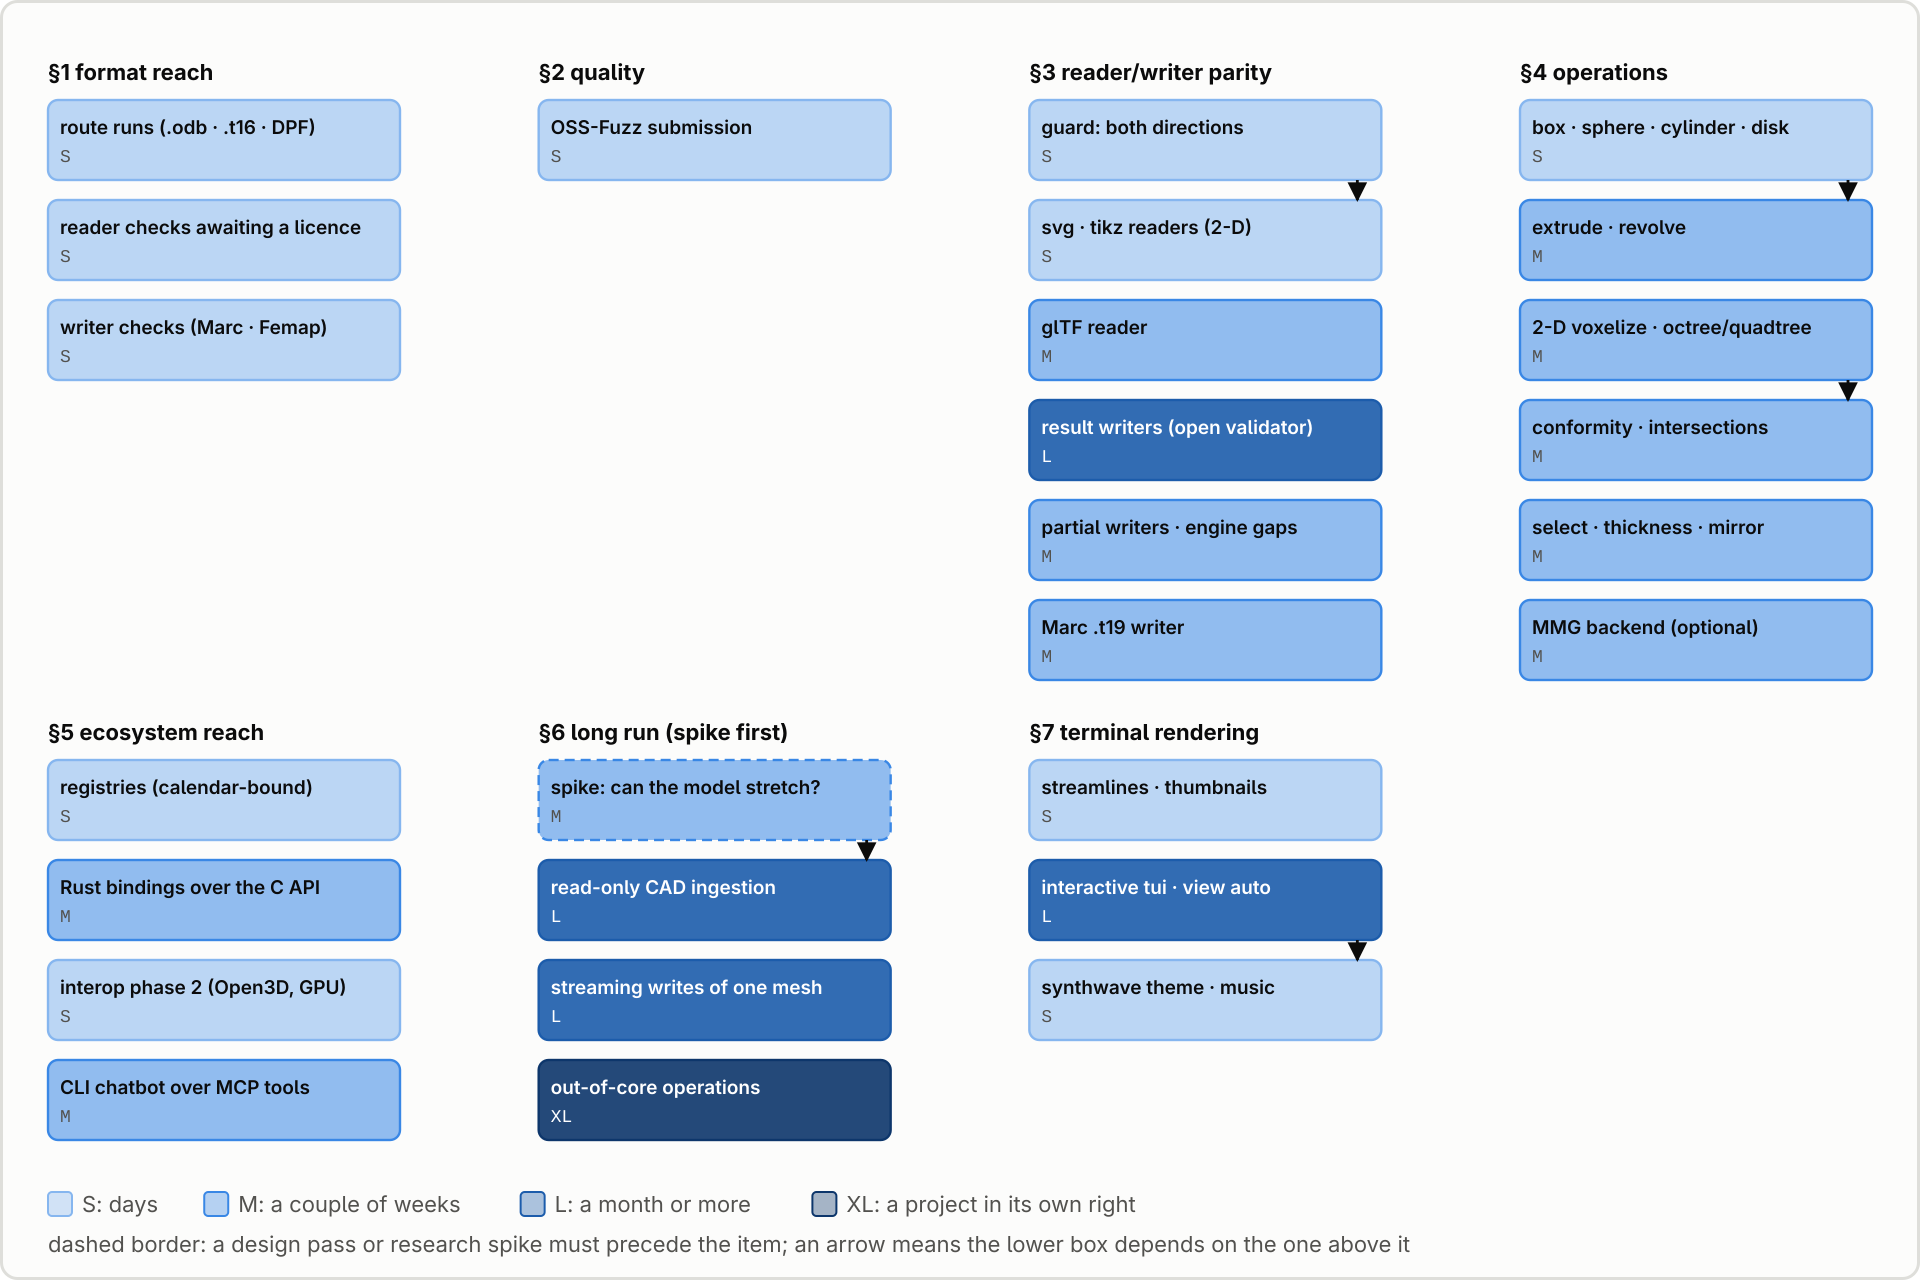
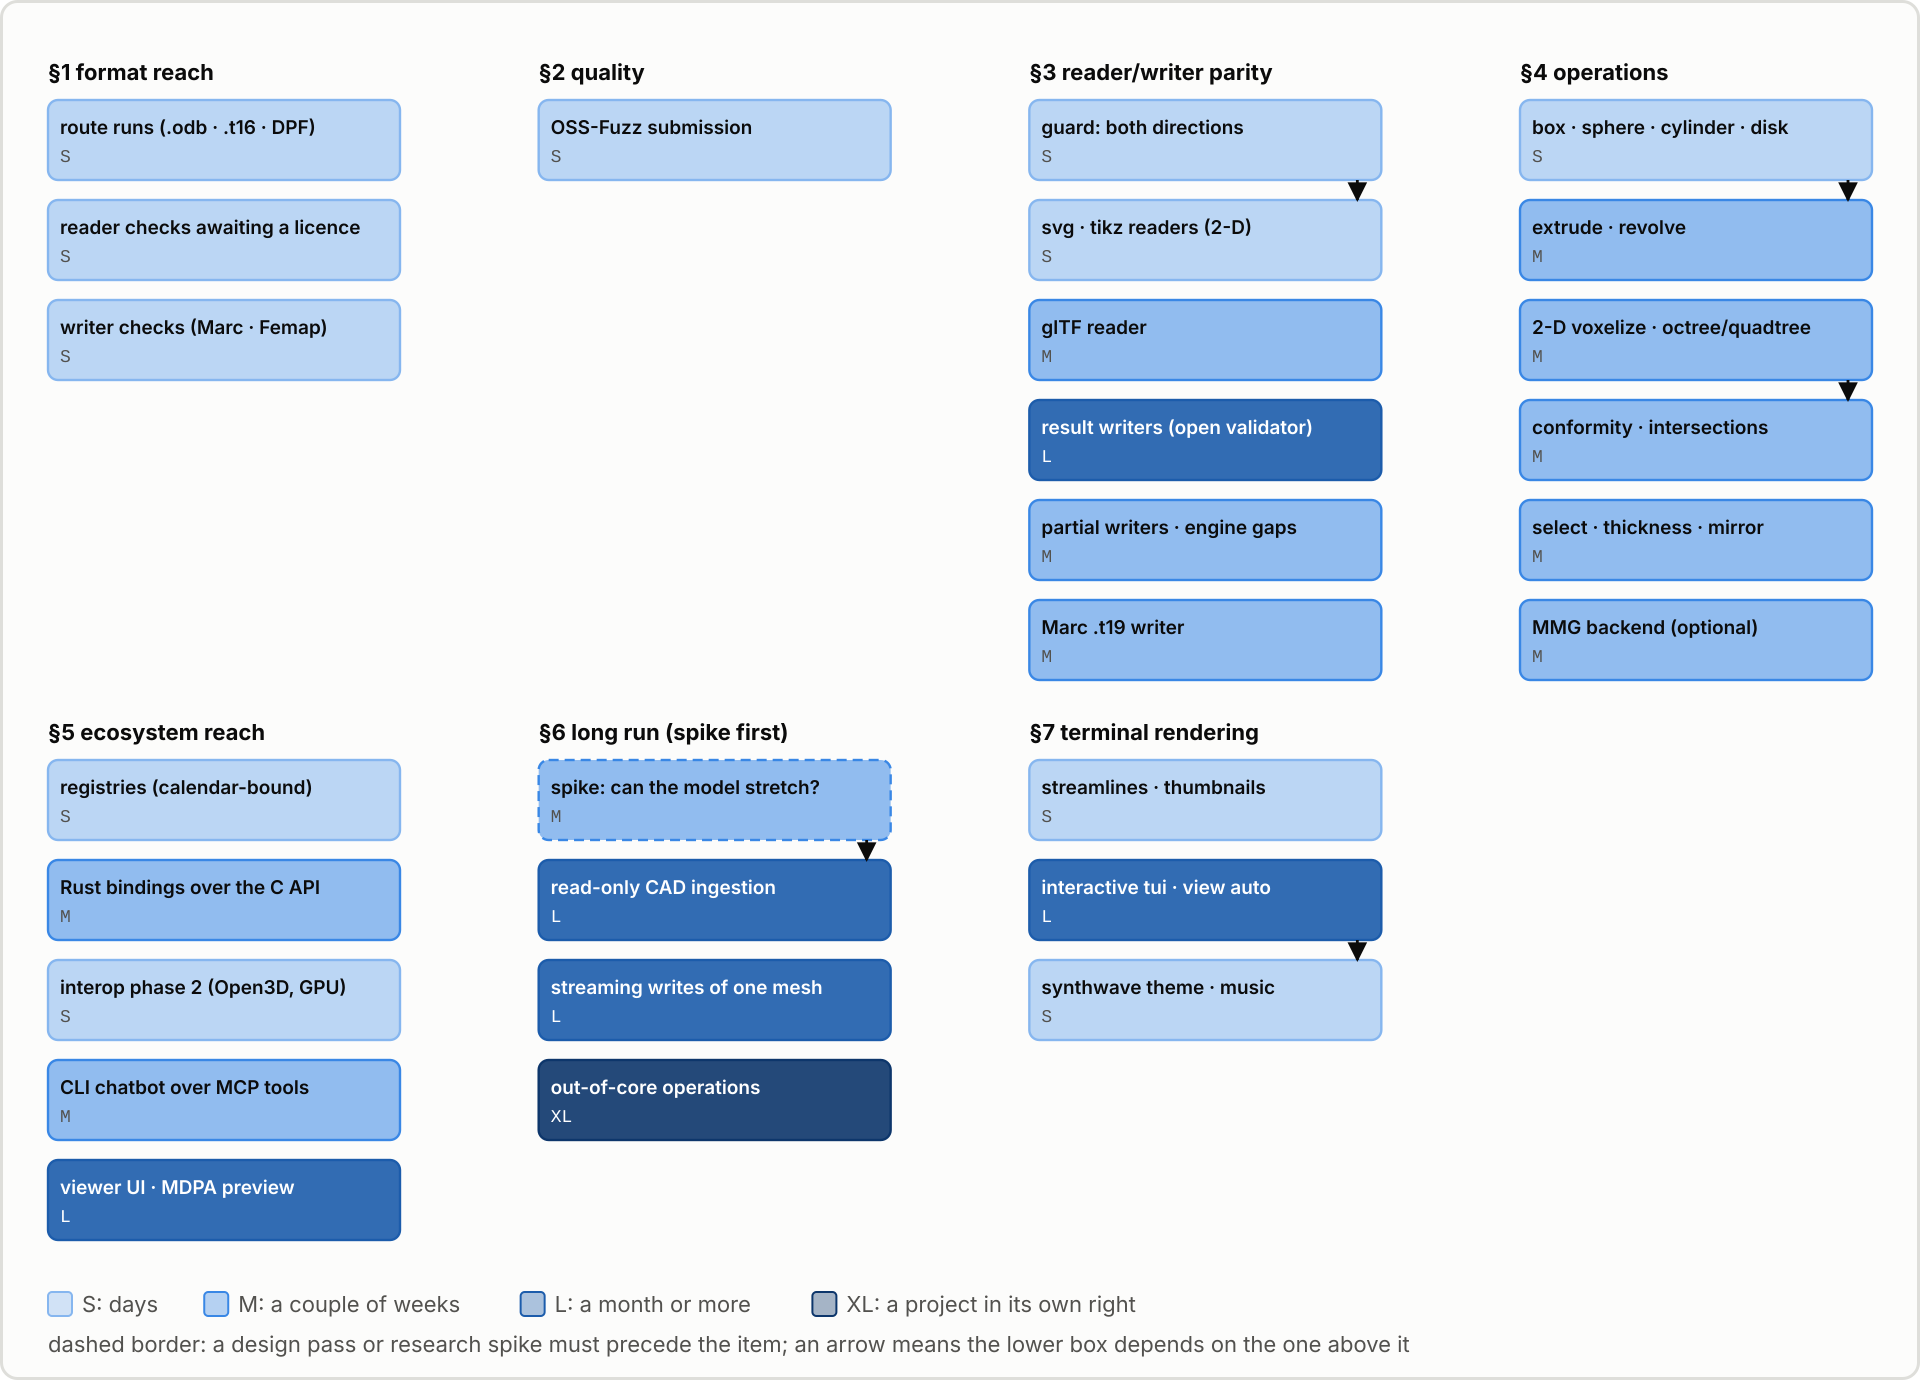
doc: add the viewer UI unification to the roadmap
Adds item 5.5 under Ecosystem reach: unify the browser viewer's UI with
the VS Code MDPA preview. The item takes the licence decision first (the
extension is AGPL-3.0-or-later, this repository is MIT), then the colormap
list, the layer outline with Find by ID, the field modes with Measure, and
a Playwright probe.

The roadmap map gains the item in its §5 column. Its SVG and PNG twins are
regenerated with doc/diagrams/gen_diagrams.py, and --check passes.

Claude-Session: https://claude.ai/code/session_01U6aPV4tXmBeVmGyTn4Co43

diff --git a/doc/diagrams/figures/flows.py b/doc/diagrams/figures/flows.py
@@ -987,6 +987,7 @@ def roadmap_map():
                 ("Rust bindings over the C API", "M"),
                 ("interop phase 2 (Open3D, GPU)", "S"),
                 ("CLI chatbot over MCP tools", "M"),
+                ("viewer UI · MDPA preview", "L"),
             ],
             [],
         ),

diff --git a/doc/roadmap.md b/doc/roadmap.md
@@ -254,6 +254,12 @@ What changed since parity last had a section. The reader/writer triage of Septem
   - **5.4.2 v1 scope.** A stateless-per-turn loop (history + tool schemas out, tool calls executed, results fed back until a plain-text reply) over files under the CWD or `--root`, reusing the MCP sandbox; context lives only in the terminal session — no persistence, no server.
   - **5.4.3 Packaging.** A `chat` extra carrying the model provider's SDK, kept out of `[all]` and imported only by the new `_cli/_chat.py`, so `_tools.py`, the default CI matrix and every other surface are untouched; without the extra or an API key the verb fails by name, following the `meshioplusplus-mcp` entry-point precedent. Provider-agnostic wiring and persisted history are follow-ups, not v1.
   - **5.4.4 Docs.** A `doc/chat.md` page modelled on [MCP](./mcp.md), plus the README and tool-table updates the `AGENTS.md` checklist requires.
+- **5.5 Unify the browser viewer's UI with the VS Code MDPA preview.** The two viewers of one Kratos mesh look and behave differently. The [browser viewer](./viewer.md) (`src/viewer/`, MIT) has a *Colour by* choice, a Surface/Wireframe/Points switch, operations as chips, Download, Fit, PNG and click-to-inspect, with six colormaps. The [VS Code preview](https://github.com/loumalouomega/VSCode-MDPA-Preview) (also vtk.js, AGPL-3.0-or-later) has an outline of ModelPart and SubModelPart layers, Find by ID, Inspect with a two-node Measure, a field panel with five modes (contour, quiver, isosurface, threshold, deformed shape) and a lockable range, a quality panel with histograms, and twelve colormaps. Editing, remeshing and running Kratos cases are Kratos workflow rather than viewing, so they stay in the extension. **Verify first:** the estimate comes from the extension's README and the viewer's own page, not from running the two side by side. **L**
+  - **5.5.1 The decision this item records: share code, or share a contract.** The extension is AGPL-3.0-or-later and this repository is MIT, so neither can take the other's source without a licence decision. The two routes are (a) a shared UI package under a licence both can use, or (b) a written UI contract (control names, their order and defaults, the colormap list, and the visual tokens of `webview/design-system.css` and `src/viewer/src/style.css`) implemented in each repository and checked by a probe in each. The recommendation is (b): it needs no licence change, and the probe shows drift. **Findings before code.** **S**
+  - **5.5.2 One colormap list.** The browser viewer hand-rolls its six maps (`src/viewer/src/render/colormaps.ts`, default *Cool to Warm*), and the extension defaults to *Rainbow*. The table that `tools/gen_colormaps.py` generates holds seven base maps, emitted as the C++ and Python twins only. Emit a TypeScript twin from the same script, add whichever of the extension's maps the core should carry (Cividis, Blue-Orange, Spectral, HSV, Rainbow) by extending the table only, so existing SVG, TikZ and glTF output stays byte-identical, and agree one default: the roadmap keeps viridis for quantitative data ([§7.4.1](#_7-terminal-rendering-tui)). **S**
+  - **5.5.3 Layers, and Find by ID.** Each ModelPart and SubModelPart becomes a toggleable layer, and an entity is found by its id. The outline is short of data: the `subModelParts` entries of the WASM side channel carry name, data, tables, and geometry and constraint ids, with no node or element membership (`src/wasm/index.d.ts`). **Verify first** whether the regions that reach JavaScript carry that membership; if they do not, extend the C++ `MdpaInfo` and its binding before building the outline. **M**
+  - **5.5.4 Field modes, and Measure.** The browser viewer has one colour-by choice, and no quiver, threshold or deformed-shape view and no two-node measure. Start with the three field views that do not build a new mesh, with the lockable range and banding that go with them; the viewer already sends vector and tensor arrays across with every component. Its Isosurface is an operation that replaces the mesh, where the extension's is a live layer with sliders, so pick one interaction for both. **M**
+  - **5.5.5 Probe.** A Playwright spec in `tests/viewer/` opens an MDPA fixture and asserts each control in the 5.5.1 contract by name, order and default. It fails today on the first control the browser viewer lacks. **S**
 
 ---
 
@@ -375,6 +381,6 @@ Open work only; what shipped is in `CHANGELOG.md`.
 4. **Primitive constructors ([§4](#_4-operations))** — tier 1 and the reference cells first, a few days, and a prerequisite of the conformance matrix, every demo surface, `extrude`/`revolve`, the 2-D `voxelize` and the octree's fixtures; the other tiers as tests and notebooks ask for them.
 5. **Voxel and octree meshes ([§4](#_4-operations))** — the 2-D `voxelize`, then the octree with hanging nodes and its quadtree, then the polyhedral transitions; the transition templates when a finite-element consumer asks.
 6. **The MMG backend ([§4](#_4-operations))** — Medit `.sol` first, since it needs no link and opens the file route; then `adapt`, `discretize_levelset`, `mesh_domain` and, with ELAS, `move`.
-7. **Registration ([§5](#_5-ecosystem-reach))** — calendar-bound, so start the submissions early and let them run alongside everything else.
+7. **Registration ([§5](#_5-ecosystem-reach))** — calendar-bound, so start the submissions early and let them run alongside everything else; the viewer unification (5.5) starts with its licence decision in 5.5.1 and can run beside them.
 8. **Long-run spikes ([§6](#_6-long-run-spike-first))** — the benchmark tier decides the scale items; the NURBS spike is scheduled independently of the rest; skin-to-CAD (6.3) starts with the segmentation, the primitive fits and the faceted STEP writer, which need no CAD kernel, and waits on the OpenCASCADE decision it shares with 6.2.4.
 9. **Terminal rendering ([§7](#_7-terminal-rendering-tui))** — the follow-ups of 7.1 whenever they are asked for; the interactive loop and the `view(backend="auto")` change (7.2–7.3); the optional synthwave theme and generated soundtrack (7.4) at the very end.
